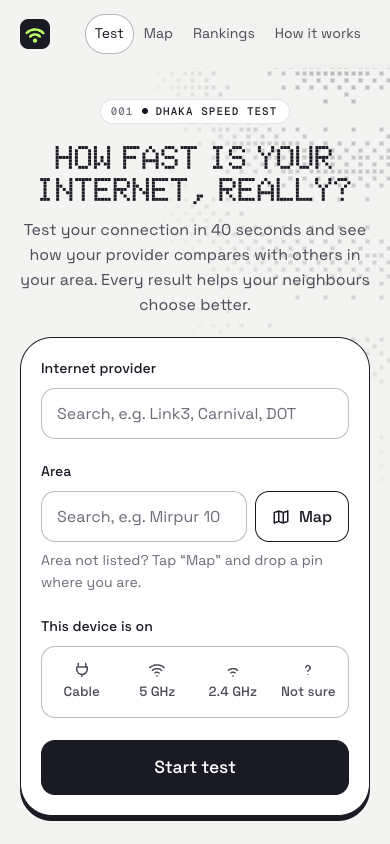
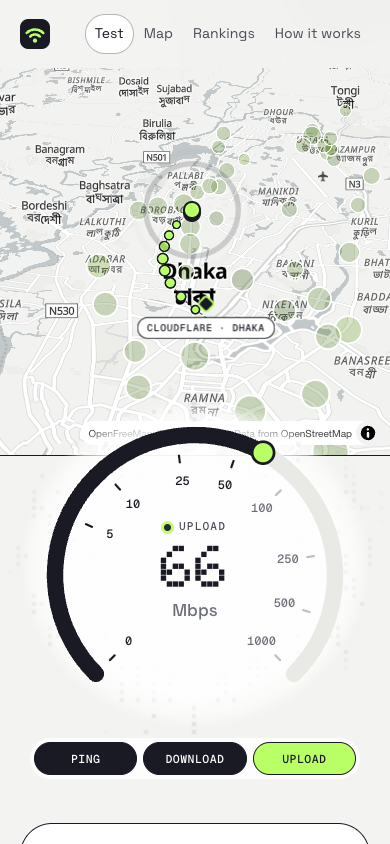
README: screenshots of the map-backed speed test

diff --git a/README.md b/README.md
@@ -10,11 +10,13 @@ Astro (server-rendered) + React islands + Postgres (Neon) + MapLibre.
 
 Figures in these screenshots come from local demo data, except the test result, which is a real run.
 
-![Home page with the speed test](docs/screenshots/home.png)
+The speed test runs on a live map of Dhaka: pick your area and the map flies to it, packets stream between you and Cloudflare's Dhaka edge while it measures, and your result lands as a pin.
+
+![Home page: the speed test over a live map of Dhaka](docs/screenshots/home.png)
 
 | Test in progress | Result |
 |---|---|
-| ![Test running, with the data stream behind the gauge](docs/screenshots/test-running.png) | ![Finished test with thank-you and speed tier](docs/screenshots/result.png) |
+| ![Test running: packets travel along an arc between the tester and the Cloudflare edge](docs/screenshots/test-running.png) | ![Finished test: the result lands as a pin on the map](docs/screenshots/result.png) |
 
 | Map | Rankings |
 |---|---|
@@ -22,7 +24,7 @@ Figures in these screenshots come from local demo data, except the test result, 
 
 | Provider page | Mobile |
 |---|---|
-| ![Provider page with peak vs off-peak](docs/screenshots/provider.png) | <img src="docs/screenshots/mobile.png" alt="Home page on a phone" width="300"> |
+| ![Provider page with peak vs off-peak](docs/screenshots/provider.png) | <img src="docs/screenshots/mobile.png" alt="Test running on a phone" width="300"> |
 
 ## Run locally
 
